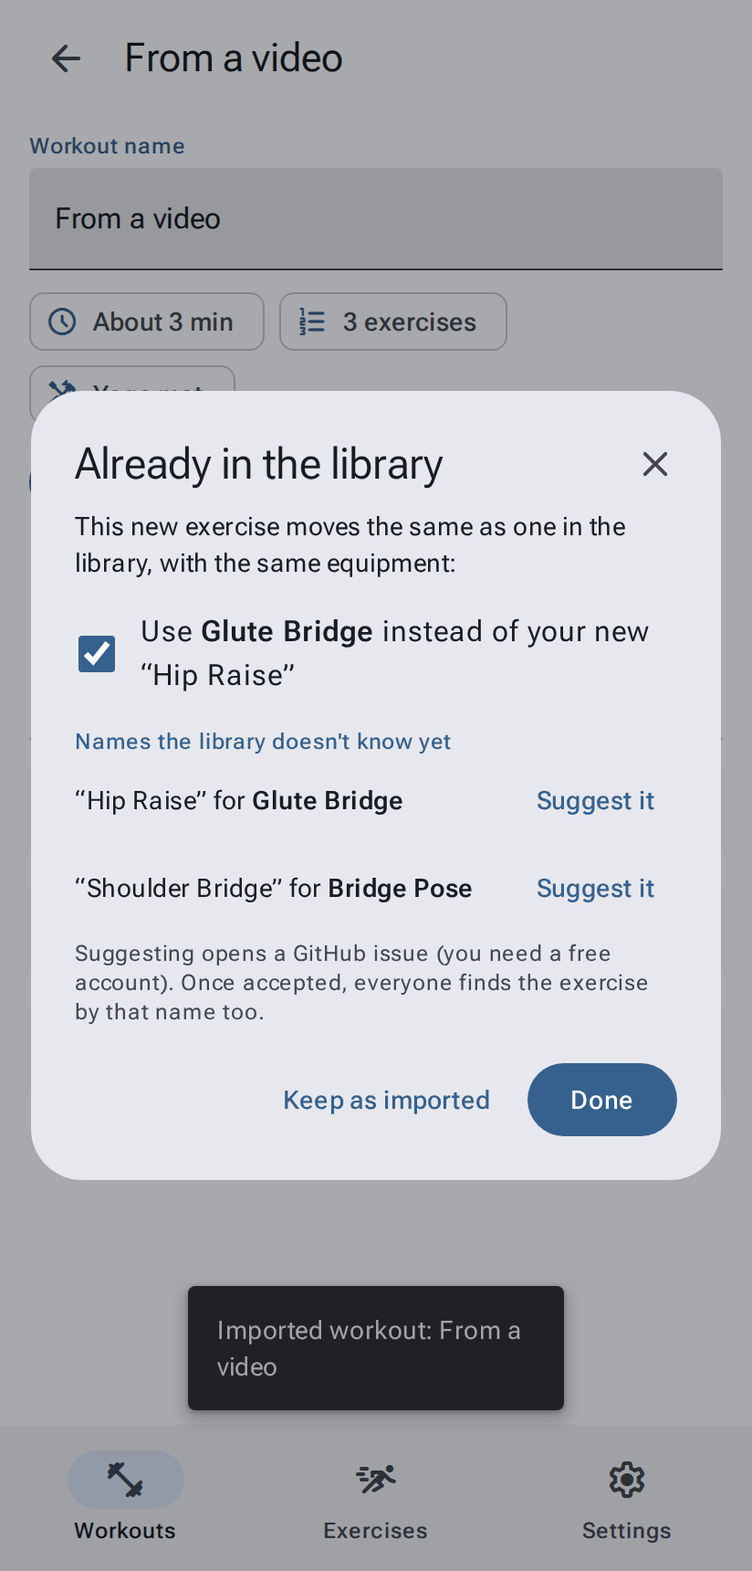
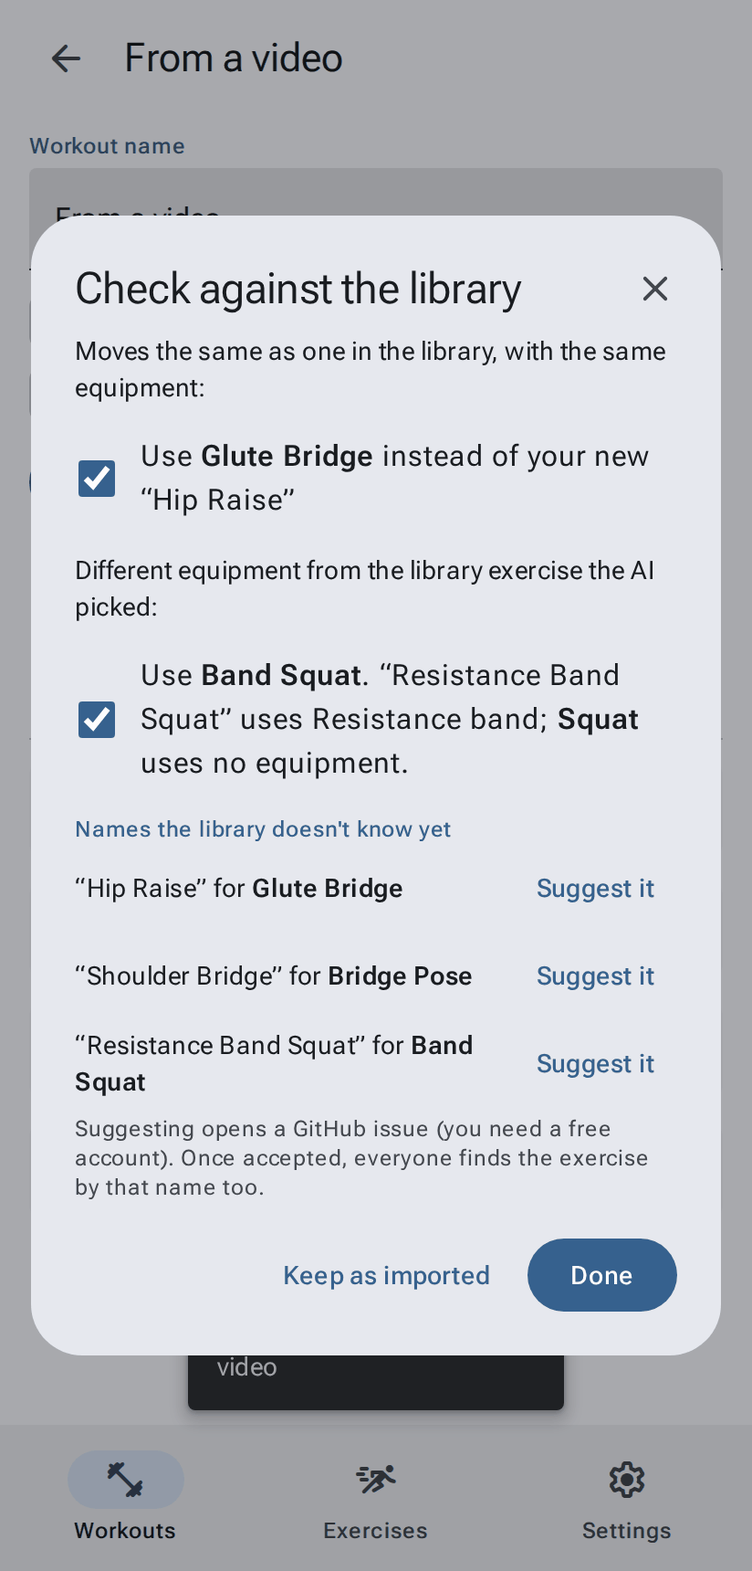
Create with AI: match on equipment too, and catch a mismatch after import
- the prompt's LIBRARY list is grouped under [equipment] headings and says a match needs the same movement and equipment; items carry equipmentInSource (kept out of the workout)
- after import: an item whose equipment differs from the library exercise the AI chose gets the library's version with that equipment (Band Squat) or the user's own copy with it; no other-name suggestion for the mismatched one
- src/similar.js: equipment as kinds (band, dumbbell, chair...), used by the duplicate check too (same 5 variant pairs)
- the prompt stays under the 15,000-character link limit (14.4k as a ChatGPT link)

Claude-Session: https://claude.ai/code/session_0133kyx5MPf8aRU2sQwm2BG7

Changed region(s): [[0.0303, 0.1233, 0.9709, 0.8628], [0.7282, 0.493, 0.8799, 0.5238]]

diff --git a/src/app/5-libcheck.js b/src/app/5-libcheck.js
@@ -1,14 +1,38 @@
 /* ===================== After an import: is it already in the library? =====================
-   Create with AI (or any file or link) can bring exercises of its own. Two things are offered, in one dialog:
+   Create with AI (or any file or link) can bring exercises of its own. What's offered, in one dialog:
    - a new exercise that moves the same as a library one, with the same equipment and measure (src/similar.js): use
      the library's instead (on by default): the imported workouts point at it, and the new copy goes unless
      something else uses it;
+   - equipment that doesn't match (the AI's "equipmentInSource" for a workout item, against the library exercise it
+     chose: a band squat matched to the plain squat): the library's version with that equipment when there is one
+     (a name word in common, else the closest motion), otherwise the user's own copy with that equipment; both on by
+     default;
    - a name the library doesn't know (the new exercise's, or the "calledInSource" the AI gives for each workout item):
-     suggest it as another name for the library exercise (Submit to library, src/app/5-submit.js).
+     suggest it as another name for the library exercise (Submit to library, src/app/5-submit.js). Not for an item
+     whose equipment doesn't match: that name belongs to the other version.
    Nothing is asked when there's nothing to say. */
-let CHECK = null;                  // { swaps: [{ ex, lib }], names: [{ name, lib }], workouts }
+let CHECK = null;                  // { swaps: [{ ex, lib }], gear: [{ at, lib, alt, name, equipment }], names: [{ name, lib }], workouts }
+const GEAR_WORDS = new Set(['band', 'banded', 'resistance', 'tube', 'loop', 'mini', 'dumbbell', 'db', 'barbell', 'bb', 'kettlebell', 'kb', 'weight', 'weighted', 'chair', 'bench', 'wall', 'seated', 'standing']);
+const printOf = ex => { if (!LIB_PRINTS.has(ex.id)) LIB_PRINTS.set(ex.id, SIMILAR_EX.fingerprint(ex)); return LIB_PRINTS.get(ex.id); };
+const kindsOf = list => SIMILAR_EX.equipKinds(list).join('|');
+const gearText = list => (list || []).filter(q => SIMILAR_EX.equipKinds([q]).length).join(', ');
+/* the library exercise with exactly this equipment that is most like lib (and the source's name for it) */
+function gearAlternative(lib, equipment, name) {
+  const want = kindsOf(equipment);
+  const words = t => SIMILAR_EX.nameKey(t).split(' ').filter(w => w && !GEAR_WORDS.has(w));
+  const mine = new Set([...words(lib.name), ...words(name)]);
+  let best = null;
+  for (const x of POSE_DB.exercises) {
+    if (x === lib || kindsOf(x.equipment) !== want) continue;
+    const shared = Math.max(...[x.name, ...otherNames(x)].map(t => words(t).filter(w => mine.has(w)).length));
+    let motion = Infinity; try { motion = SIMILAR_EX.motionDistance(printOf(lib), printOf(x)); } catch (e) { }
+    if (!shared && motion >= 8) continue;
+    if (!best || shared > best.shared || (shared === best.shared && motion < best.motion)) best = { x, shared, motion };
+  }
+  return best && best.x;
+}
 function importCheck(newExs, called) {
-  const swaps = [], names = [], seen = new Set();
+  const swaps = [], gear = [], names = [], seen = new Set();
   const addName = (name, lib) => {
     name = baseName(name); const k = lib.id + ':' + SIMILAR_EX.nameKey(name);
     if (!name || seen.has(k) || POSE_DB.exercises.some(x => hasName(x, name))) return;   // known, or another exercise's name
@@ -22,38 +46,76 @@ function importCheck(newExs, called) {
     swaps.push({ ex, lib }); addName(ex.name, lib);
   }
   for (const c of called) {
-    const lib = findInDb(c.ex) || (swaps.find(s => s.ex.id === c.ex) || {}).lib;
-    if (lib) addName(c.name, lib);
+    const lib = findInDb(c.ex);
+    if (lib && c.equipment && c.at && kindsOf(c.equipment) !== kindsOf(lib.equipment)) {
+      const alt = gearAlternative(lib, c.equipment, c.name);
+      gear.push({ at: c.at, lib, alt, name: baseName(c.name), equipment: c.equipment });
+      if (alt && c.name) addName(c.name, alt);
+      continue;
+    }
+    const to = lib || (swaps.find(s => s.ex.id === c.ex) || {}).lib;
+    if (to && c.name) addName(c.name, to);
   }
-  return { swaps, names };
+  return { swaps, gear, names };
 }
 function checkImport(newExs, called, workouts) {
-  const { swaps, names } = importCheck(newExs, called);
-  if (!swaps.length && !names.length) return;
-  CHECK = { swaps, names, workouts };
-  $('#checkTitle').textContent = swaps.length ? 'Already in the library' : 'Other names';
+  const { swaps, gear, names } = importCheck(newExs, called);
+  if (!swaps.length && !gear.length && !names.length) return;
+  CHECK = { swaps, gear, names, workouts };
+  const box = (attr, i, html) => `<label class="choice body-large"><input type="checkbox" ${attr}="${i}" checked><span>${html}</span></label>`;
+  const uses = list => gearText(list) || 'no equipment';
+  $('#checkTitle').textContent = swaps.length || gear.length ? 'Check against the library' : 'Other names';
   $('#checkBody').innerHTML =
-    (swaps.length ? `<p class="body-medium" style="margin:0">${swaps.length === 1 ? 'This new exercise moves' : 'These new exercises move'} the same as one in the library, with the same equipment:</p>
+    (swaps.length ? `<p class="body-medium" style="margin:0">Moves the same as one in the library, with the same equipment:</p>
       <fieldset class="choices"><legend class="vh">Use the library's</legend>${swaps.map((s, i) =>
-        `<label class="choice body-large"><input type="checkbox" data-swap="${i}" checked><span>Use <b>${esc(s.lib.name)}</b> instead of your new “${esc(s.ex.name)}”</span></label>`).join('')}</fieldset>` : '') +
+        box('data-swap', i, `Use <b>${esc(s.lib.name)}</b> instead of your new “${esc(s.ex.name)}”`)).join('')}</fieldset>` : '') +
+    (gear.length ? `<p class="body-medium" style="margin:0">Different equipment from the library exercise the AI picked:</p>
+      <fieldset class="choices"><legend class="vh">Equipment</legend>${gear.map((g, i) => {
+        const what = `${g.name ? `“${esc(g.name)}” uses` : 'The source uses'} ${esc(uses(g.equipment))}; <b>${esc(g.lib.name)}</b> uses ${esc(uses(g.lib.equipment))}`;
+        return box('data-gear', i, g.alt ? `Use <b>${esc(g.alt.name)}</b>. ${what}.` : `Make your own copy of <b>${esc(g.lib.name)}</b> with ${esc(uses(g.equipment))}. ${what}.`);
+      }).join('')}</fieldset>
+      ${gear.some(g => !g.alt) ? '<p class="body-small muted" style="margin:0 0 8px">A copy goes in My exercises. The figure shows the equipment once it\'s added to the poses (Authoring mode).</p>' : ''}` : '') +
     (names.length ? `<span class="field-label">Names the library doesn't know yet</span>${names.map((n, i) =>
         `<div class="check-name body-medium"><span>“${esc(n.name)}” for <b>${esc(n.lib.name)}</b></span><button class="btn text stateful" data-suggest="${i}">Suggest it</button></div>`).join('')}
       <p class="body-small muted" style="margin:4px 0 0">Suggesting opens a GitHub issue (you need a free account). Once accepted, everyone finds the exercise by that name too.</p>` : '');
-  $('#checkKeep').hidden = !swaps.length;
+  $('#checkKeep').hidden = !swaps.length && !gear.length;
   $('#checkDialog').showModal();
 }
-/* the checked swaps: imported workouts use the library exercise; the new one goes if nothing else uses it */
+/* a copy of a library exercise with the source's equipment (and name) */
+function gearCopy(lib, equipment, name) {
+  const nm = name && !hasName(lib, name) ? name : `${lib.name} with ${gearText(equipment).toLowerCase()}`;
+  const slug = nm.toLowerCase().normalize('NFD').replace(/[̀-ͯ]/g, '').replace(/[^a-z0-9]+/g, '-').replace(/^-+|-+$/g, '').slice(0, 40) || 'exercise';
+  let id = `u-${slug}`, n = 2; while (exById(id)) id = `u-${slug}-${n++}`;
+  const keep = (lib.equipment || []).filter(q => !SIMILAR_EX.equipKinds([q]).length);          // a mat stays
+  const copy = { ...clone(lib), id, name: nm, basedOn: lib.id, equipment: [...keep, ...equipment.filter(q => SIMILAR_EX.equipKinds([q]).length)] };
+  delete copy.collections;
+  S.lib.items.push(copy);
+  return copy;
+}
+/* what's ticked: imported workouts use the library exercise (or the copy); a replaced new one goes if nothing uses it */
 function applyChecks() {
   if (!CHECK) return;
-  const on = CHECK.swaps.filter((s, i) => ($(`#checkBody [data-swap="${i}"]`) || {}).checked);
-  if (!on.length) return;
+  const ticked = (attr, list) => list.filter((x, i) => ($(`#checkBody [${attr}="${i}"]`) || {}).checked);
+  const on = ticked('data-swap', CHECK.swaps), gear = ticked('data-gear', CHECK.gear);
+  if (!on.length && !gear.length) return;
   for (const { ex, lib } of on) {
     for (const w of CHECK.workouts) for (const b of w.blocks) for (const it of b.items) if (it.ex === ex.id) it.ex = lib.id;
     const used = WK.list.some(w => w.blocks.some(b => b.items.some(it => it.ex === ex.id)));
     if (!used) { S.lib.items = S.lib.items.filter(x => x.id !== ex.id); if (BOOKMARKS && BOOKMARKS.delete(ex.id)) saveBookmarks(); }
   }
+  let copies = 0;
+  for (const g of gear) {
+    const w = CHECK.workouts[g.at[0]], it = w && w.blocks[g.at[1]] && w.blocks[g.at[1]].items[g.at[2]];
+    if (!it || it.ex !== g.lib.id) continue;
+    const to = g.alt || gearCopy(g.lib, g.equipment, g.name);
+    if (!g.alt) copies++;
+    it.ex = to.id;
+    it.sides = to.bilateral ? (it.sides || 'both') : null;
+    it.dir = to.direction ? (it.dir || 'both') : null;
+  }
   saveWorkouts(); saveLib();
-  snack(on.length === 1 ? `Using the library's ${on[0].lib.name}` : `Using ${on.length} library exercises`);
+  const n = on.length + gear.length - copies;
+  snack([n ? `Using ${n} library ${n === 1 ? 'exercise' : 'exercises'}` : '', copies ? `${copies} ${copies === 1 ? 'copy' : 'copies'} in My exercises` : ''].filter(Boolean).join(', '));
   // an imported exercise's page shows the library one instead
   const shown = on.find(s => S.ex && S.ex.id === s.ex.id);
   if (shown) go(`#/play/${encodeURIComponent(shown.lib.id)}`); else route();

diff --git a/src/app/5-ai.js b/src/app/5-ai.js
@@ -24,15 +24,21 @@ const AI_KINDS = [
 const aiApp = () => AI_APPS.find(a => a.id === pref(AI_KEY, 'gemini')) || AI_APPS.find(a => a.id === 'gemini');   // the last one picked
 let AI_KIND = 'name';
 
-/* the library, one line per exercise, so the AI can use what's already there */
+/* the library, one line per exercise, so the AI can use what's already there; grouped by equipment (a mat doesn't
+   count), so a band or dumbbell version isn't matched to the bodyweight one, with one heading per group (shorter than
+   a tag on every line: the prompt has to fit in a link) */
 function libraryLines() {
-  return allExercises().map(ex => {
+  const groups = new Map();
+  for (const ex of allExercises()) {
     const bits = [];
     if (ex.measure === 'time') bits.push('time');
     if (ex.bilateral) bits.push('sides');
     if (ex.direction) bits.push(`dir A=${ex.direction.labels.A}/B=${ex.direction.labels.B}`);
-    return ex.id + (bits.length ? ` (${bits.join(', ')})` : '');
-  }).join('\n');
+    const k = SIMILAR_EX.equipKinds(ex.equipment).join(', ');
+    if (!groups.has(k)) groups.set(k, []);
+    groups.get(k).push(ex.id + (bits.length ? ` (${bits.join(', ')})` : ''));
+  }
+  return [...groups.keys()].sort().map(k => `[${k || 'no equipment'}]\n${groups.get(k).join('\n')}`).join('\n');
 }
 function aiPrompt(kind = AI_KIND, input = '') {
   const what = input.trim();
@@ -54,14 +60,14 @@ WHICH FILE
 - ONE exercise that is not in the LIBRARY: an exercise file (EXERCISE FORMAT).
 - A ROUTINE of several exercises: a workout file:
   {"format":"nstructr/workout","version":2,"workouts":[WORKOUT],"exercises":[new exercises, if any]}
-  Use LIBRARY ids where an exercise matches by movement (not just by name). For any exercise with no reasonable match, write it in "exercises" (EXERCISE FORMAT, id starting "u-") and use that id in the workout.
+  Use LIBRARY ids where an exercise matches by movement AND equipment, not just by name: a squat with a band, dumbbells or a chair is not the plain squat. For any exercise with no match, write it in "exercises" (EXERCISE FORMAT, id starting "u-", with its "equipment") and use that id in the workout.
 
 WORKOUT
 {"version":2,"id":"kebab-case-name","name":"...","description":"one sentence","blocks":[
   {"name":"Warm-up","rounds":1,"roundRest":30,"items":[
-    {"ex":"<exercise id>","calledInSource":"Hip Raise","sets":1,"reps":10,"sides":"both","dir":"both","tempo":1},
-    {"ex":"<exercise id>","calledInSource":"...","seconds":30,"sides":"both"}]}]}
-- "calledInSource" on every item: the name the source uses for that exercise, as it says it (any language). When you use a LIBRARY id for an exercise the source calls something else, the app suggests the source's name as another name for it.
+    {"ex":"<exercise id>","calledInSource":"Hip Raise","equipmentInSource":[],"sets":1,"reps":10,"sides":"both","dir":"both","tempo":1},
+    {"ex":"<exercise id>","calledInSource":"...","equipmentInSource":["Resistance band"],"seconds":30,"sides":"both"}]}]}
+- On every item: "calledInSource", the source's name for it (any language), and "equipmentInSource", the equipment the source uses for it ([] for none; a mat doesn't count).
 - Rep-based exercises get "reps"; time-based ones get "seconds". Use the routine's numbers; for a range, use the lower end.
 - "sides" (only for exercises marked sides): "L", "R", "both" (one side then the other) or "alternate". Reps count per side.
 - "dir" (only for exercises marked dir): "A", "B", "both" or "alternate".
@@ -72,7 +78,7 @@ WORKOUT
 ${aiPromptText()}
 8. Write "description", "setup" and "cues" in your own words; short, plain directions. Put where it came from in "source".
 
-LIBRARY (exercise ids; "time" = measured in seconds, otherwise reps; "sides"/"dir" = takes those options)
+LIBRARY (exercise ids under the [equipment] they use; "time" = measured in seconds, otherwise reps; "sides"/"dir" = takes those options)
 ${libraryLines()}`;
 }
 function aiPromptText() { return $('#aiPrompt').innerHTML.replace(/&lt;/g, '<').replace(/&gt;/g, '>').replace(/&amp;/g, '&').replace(/(\S) {2,}/g, '$1 '); }   // alignment spaces cost link length

diff --git a/src/app/5-main.js b/src/app/5-main.js
@@ -311,11 +311,15 @@ function importText(text, label) {
     data = { ...data, workouts: JSON.parse(JSON.stringify(data.workouts)) };
     const exs = Array.isArray(data.exercises) && data.exercises.length ? claimIds(normalizeImport({ exercises: data.exercises }), data.workouts) : [];
     for (const ex of exs) { if (isNewOwn(ex)) IMPORT_NEW.push(ex); keepImported(ex); }
-    // what the source calls each exercise (Create with AI): kept for the library check, not in the workout
-    for (const w of data.workouts) for (const b of (w && w.blocks) || []) for (const it of (b && b.items) || []) {
-      if (it && typeof it.calledInSource === 'string' && it.calledInSource.trim()) IMPORT_CALLED.push({ ex: it.ex, name: it.calledInSource.trim().slice(0, 80) });
-      if (it) delete it.calledInSource;
-    }
+    // what the source calls each exercise and the equipment it uses (Create with AI): for the library check, not kept in the workout
+    // (at: where the item lands in IMPORTED_WORKOUTS, so the check can change it)
+    data.workouts.forEach((w, wi) => ((w && w.blocks) || []).forEach((b, bi) => ((b && b.items) || []).forEach((it, ii) => {
+      if (!it) return;
+      const name = typeof it.calledInSource === 'string' ? it.calledInSource.trim().slice(0, 80) : '';
+      const equipment = Array.isArray(it.equipmentInSource) ? it.equipmentInSource.filter(q => typeof q === 'string').map(q => q.trim().slice(0, 40)).slice(0, 8) : null;
+      if (name || equipment) IMPORT_CALLED.push({ ex: it.ex, name, equipment, at: [IMPORTED_WORKOUTS.length + wi, bi, ii] });
+      delete it.calledInSource; delete it.equipmentInSource;
+    })));
     const ws = importWorkouts(data);
     IMPORTED_WORKOUTS.push(...ws);
     return [];
@@ -327,7 +331,7 @@ function importText(text, label) {
   }
   return list;
 }
-/* IMPORT_NEW: the user's own exercises an import added (not ones they had, or copies of library ones: those are on purpose); IMPORT_CALLED: [{ ex, name }] what the source calls them */
+/* IMPORT_NEW: the user's own exercises an import added (not ones they had, or copies of library ones: those are on purpose); IMPORT_CALLED: [{ ex, name, equipment, at }] what the source calls them and uses */
 let IMPORTED_WORKOUTS = [], RESTORED = null, IMPORT_NEW = [], IMPORT_CALLED = [];
 function importAndShow(texts) {
   const added = []; IMPORTED_WORKOUTS = []; RESTORED = null; IMPORT_NEW = []; IMPORT_CALLED = [];

diff --git a/src/similar.js b/src/similar.js
@@ -29,8 +29,17 @@
   const nameKey = s => String(s || '').toLowerCase().normalize('NFD').replace(/[̀-ͯ]/g, '').replace(/[^a-z0-9]+/g, ' ')
     .split(' ').filter(t => t && !FILLER.has(t)).map(singular).sort().join(' ');
   const namesOf = ex => [ex.name, ...(Array.isArray(ex.otherNames) ? ex.otherNames : [])].map(nameKey).filter(Boolean);
-  const NO_EQUIPMENT = new Set(['mat', 'yoga mat', 'exercise mat', 'floor']);
-  const equipKey = ex => [...new Set((ex.equipment || []).map(e => singular(String(e).toLowerCase().trim())).filter(e => e && !NO_EQUIPMENT.has(e)))].sort().join('|');
+  /* equipment, as kinds: "Resistance band" and "band" are one thing, "Dumbbells" and "dumbbell" too; a mat or the
+     floor isn't equipment. Also used for the AI's "equipmentInSource" (free text). */
+  const KINDS = [['band', /band|tube/], ['dumbbell', /dumb ?bell/], ['barbell', /barbell/], ['kettlebell', /kettle ?bell/], ['chair', /chair/],
+    ['bench', /bench/], ['wall', /wall/], ['step', /\bstep|box/], ['towel', /towel/], ['block', /block/], ['strap', /strap/], ['ball', /ball/]];
+  const equipKind = e => {
+    const t = String(e || '').toLowerCase().trim();
+    if (!t || /\bmat\b|floor|none|bodyweight|body weight/.test(t)) return '';
+    const k = KINDS.find(([, re]) => re.test(t)); return k ? k[0] : singular(t);
+  };
+  const equipKinds = list => [...new Set((list || []).map(equipKind).filter(Boolean))].sort();
+  const equipKey = ex => equipKinds(ex.equipment).join('|');
   const measureOf = ex => ex.measure || 'reps';
   /* How ex compares with each library exercise, closest first: [{ id, name, motion, sameName, sameEquipment,
      sameMeasure, verdict }]. verdict: "duplicate" (moves the same, same equipment and measure), "variant" (moves the
@@ -50,6 +59,6 @@
     const rank = { duplicate: 0, variant: 1, name: 2, similar: 3 };
     return out.sort((a, b) => rank[a.verdict] - rank[b.verdict] || a.motion - b.motion);
   }
-  const api = { fingerprint, motionDistance, similarTo, nameKey, SAME, SIMILAR };
+  const api = { fingerprint, motionDistance, similarTo, nameKey, equipKinds, SAME, SIMILAR };
   if (typeof module !== 'undefined') module.exports = api; else root.SIMILAR_EX = api;
 })(typeof window !== 'undefined' ? window : globalThis);

diff --git a/tools/e2e/ai_library_check.py b/tools/e2e/ai_library_check.py
@@ -4,14 +4,18 @@ URL = os.environ.get('NSTRUCTR_URL', 'http://localhost:8000/nstructr.html')
 from playwright.async_api import async_playwright
 # After an import (src/app/5-libcheck.js): a new exercise that moves the same as a library one -> "use the library's"
 # (the workout points at it, the copy goes); names the library doesn't know (the new exercise's, and each item's
-# "calledInSource" from Create with AI) -> "Suggest it" (a prefilled GitHub issue). calledInSource isn't kept.
+# "calledInSource" from Create with AI) -> "Suggest it" (a prefilled GitHub issue); an item whose "equipmentInSource"
+# doesn't match the library exercise the AI chose -> the library's version with that equipment, or an own copy with it.
+# calledInSource and equipmentInSource aren't kept.
 ANSWER = """(() => {
   const hip = { ...clone(findInDb('bw-glute-bridge')), id: 'u-hip-raise', name: 'Hip Raise' }; delete hip.collections; delete hip.otherNames;
   const odd = clone(findInDb('wu-arm-circles')); odd.keyframes.forEach((k, i) => { k.pose.kneeL = 20 + 40 * i; });
   Object.assign(odd, { id: 'u-knee-arms', name: 'Knee Arm Windmill' }); delete odd.collections;
   return JSON.stringify({ format: 'nstructr/workout', version: 2, workouts: [{ name: 'From a video', blocks: [{ name: 'Main', items: [
-    { ex: 'bw-squat', calledInSource: 'Squats', reps: 10 },
-    { ex: 'yoga-bridge', calledInSource: 'Shoulder Bridge', seconds: 30 },
+    { ex: 'bw-squat', calledInSource: 'Squats', equipmentInSource: [], reps: 10 },
+    { ex: 'yoga-bridge', calledInSource: 'Shoulder Bridge', equipmentInSource: ['Yoga mat'], seconds: 30 },
+    { ex: 'bw-squat', calledInSource: 'Resistance Band Squat', equipmentInSource: ['Resistance band'], reps: 12 },
+    { ex: 'bw-glute-bridge', calledInSource: 'Dumbbell Hip Thrust', equipmentInSource: ['Dumbbells', 'Bench'], reps: 10 },
     { ex: 'u-hip-raise', calledInSource: 'Hip Raise', reps: 12 },
     { ex: 'u-knee-arms', calledInSource: 'Knee Arm Windmill', reps: 8 } ] }] }], exercises: [hip, odd] });
 })()"""
@@ -24,12 +28,15 @@ async def main():
         answer = await pg.evaluate(ANSWER)
         await pg.evaluate("openAi()"); await pg.fill('#aiAnswer', answer); await pg.click('#aiImport'); await pg.wait_for_timeout(600)
         body = await pg.evaluate("[$('#checkDialog').open, $('#checkTitle').textContent, [...document.querySelectorAll('#checkBody .choice')].map(x => x.innerText), [...document.querySelectorAll('#checkBody .check-name span')].map(x => x.innerText)]")
-        print('dialog                  ', body)
+        print('dialog                  ', body[:2])
+        for c in body[2]: print('   ', c)
+        for c in body[3]: print('    name:', c)
         await pg.click('#checkBody [data-suggest="1"]'); await pg.wait_for_timeout(400)
         q = urllib.parse.parse_qs(urllib.parse.urlparse(await pg.evaluate('window.OPENED')).query)
         print('suggest                 ', q['kind'], q['target'], q['title'], '| button', await pg.inner_text('#checkBody [data-suggest="1"]'))
         await pg.click('#checkDone'); await pg.wait_for_timeout(400)
-        print('after Done              ', await pg.evaluate("[$('#checkDialog').open, WK.list.at(-1).blocks[0].items.map(i => i.ex), WK.list.at(-1).blocks[0].items.some(i => 'calledInSource' in i), S.lib.items.map(x => x.id), location.hash.slice(0, 10)]"))
+        print('after Done              ', await pg.evaluate("[$('#checkDialog').open, WK.list.at(-1).blocks[0].items.map(i => i.ex), WK.list.at(-1).blocks[0].items.some(i => 'calledInSource' in i || 'equipmentInSource' in i), S.lib.items.map(x => x.id), location.hash.slice(0, 10)]"))
+        print('the copy                ', await pg.evaluate("(x => [x.name, x.basedOn, x.equipment])(S.lib.items.find(x => x.basedOn === 'bw-glute-bridge'))"))
         # "Keep as imported" changes nothing
         await pg.evaluate("openAi()"); await pg.fill('#aiAnswer', answer.replace('From a video', 'Second')); await pg.click('#aiImport'); await pg.wait_for_timeout(600)
         await pg.click('#checkKeep'); await pg.wait_for_timeout(300)

diff --git a/tools/wiki_screenshots.py b/tools/wiki_screenshots.py
@@ -108,7 +108,8 @@ async def main():
         # the library check after importing an AI workout
         await pg.evaluate("""(() => { const hip = { ...clone(findInDb('bw-glute-bridge')), id: 'u-hip-raise', name: 'Hip Raise' }; delete hip.collections; delete hip.otherNames;
           const wk = { version: 2, name: 'From a video', blocks: [{ name: 'Main', items: [{ ex: 'bw-squat', calledInSource: 'Squats', reps: 10 },
-            { ex: 'yoga-bridge', calledInSource: 'Shoulder Bridge', seconds: 30 }, { ex: 'u-hip-raise', calledInSource: 'Hip Raise', reps: 12 }] }] };
+            { ex: 'yoga-bridge', calledInSource: 'Shoulder Bridge', seconds: 30 }, { ex: 'bw-squat', calledInSource: 'Resistance Band Squat', equipmentInSource: ['Resistance band'], reps: 12 },
+            { ex: 'u-hip-raise', calledInSource: 'Hip Raise', reps: 12 }] }] };
           importAndShow([[JSON.stringify({ format: 'nstructr/workout', version: 2, workouts: [wk], exercises: [hip] }), 'AI']]); })()""")
         await pg.wait_for_timeout(500); await shot(pg, 'import-check')
         await pg.evaluate("""(() => { $('#checkDialog').close(); const w = WK.list.find(w => w.name === 'From a video'); WK.list = WK.list.filter(x => x !== w); saveWorkouts();

diff --git a/HANDOFF.md b/HANDOFF.md
@@ -603,12 +603,19 @@ must not fill with **duplicates**, and a known exercise under another name shoul
   those four are only copied; "Other LLM" just copies. 3: paste
   the answer: `extractJson()` takes the JSON out of ``` fences or surrounding sentences; `{"inLibrary": "<id>"}`
   opens that library exercise; anything else goes through the normal import (exercise, or a workout file bringing
-  its own `u-` exercises). The prompt asks for `"calledInSource"` on every workout item (the source's own name for
-  it); the import takes it out of the workout and keeps it for the library check.
+  its own `u-` exercises). The prompt's LIBRARY list is grouped under `[equipment]` headings (kinds from
+  `SIMILAR_EX.equipKinds`: band, dumbbell, chair…; a mat doesn't count), and it says a match needs the same movement
+  **and** equipment (models matched "band squat" to the plain squat when they only saw ids). It asks for
+  `"calledInSource"` (the source's own name) and `"equipmentInSource"` on every workout item; the import takes both
+  out of the workout and keeps them for the library check. The prompt must stay under `AI_Q_MAX` for the link-filled
+  apps: about 14.4k characters as a ChatGPT link (Sep 2026).
 - **Library check after an import** (`src/app/5-libcheck.js`; any import: AI answer, file, pasted JSON, link;
   not a backup): a new own exercise (not one the user had, not a `basedOn` copy) that is a **duplicate** of a
   library one (`src/similar.js`) gets "Use <library exercise> instead" (on by default: **Done** points the imported
-  workouts at it and removes the new one unless another workout uses it; **Keep as imported** changes nothing), and
+  workouts at it and removes the new one unless another workout uses it; **Keep as imported** changes nothing); an
+  item whose `equipmentInSource` kinds differ from the library exercise the AI chose gets the library's version with
+  that equipment (same equipment kinds; a name word in common, else motion within 8°; the closest) or else the
+  user's own copy with that equipment (`basedOn`, named from `calledInSource`), both on by default; and
   each name the library doesn't know (a duplicate's name, and `calledInSource` names of library exercises), unless
   another library exercise already has it, gets **Suggest it** (the Submit to library issue, kind `name`). No
   dialog when there's nothing to say.

diff --git a/wiki/Create-with-AI.md b/wiki/Create-with-AI.md
@@ -46,11 +46,14 @@ When the AI has answered, copy its whole reply, come back, tap **Paste** (or lon
 - If the exercise **is already in the library**, that exercise opens instead.
 - **Already in the library under another name?** If a new exercise moves the same as a library one (same
   equipment, reps or hold), you're asked whether to use the library's instead (it's ticked; **Done** swaps it in
-  the workout, **Keep as imported** keeps yours). Names the library doesn't know yet, such as what the video
+  the workout, **Keep as imported** keeps yours).
+- **Different equipment?** If the AI picked a library exercise but the source uses other equipment (a band squat
+  matched to the plain squat), you're offered the library's version with that equipment (Band Squat), or, when
+  the library has none, your own copy with that equipment in My exercises. Names the library doesn't know yet, such as what the video
   calls an exercise, can be sent as suggestions with **Suggest it**
   (see [Submit to library](Sharing-and-backups.md#submit-an-exercise-to-the-library)).
 
-<img src="images/import-check.png" width="300" alt="Already in the library: use Glute Bridge instead of your new Hip Raise; names the library doesn't know yet, each with Suggest it">
+<img src="images/import-check.png" width="300" alt="Check against the library: use Glute Bridge instead of your new Hip Raise; use Band Squat for a resistance band squat; names the library doesn't know yet, each with Suggest it">
 - If the answer isn't usable, you're told why; ask the AI to try again or to "answer with only the JSON".
 
 AI apps make mistakes. Watch a new exercise before you use it, and fix the words or poses if needed (see
